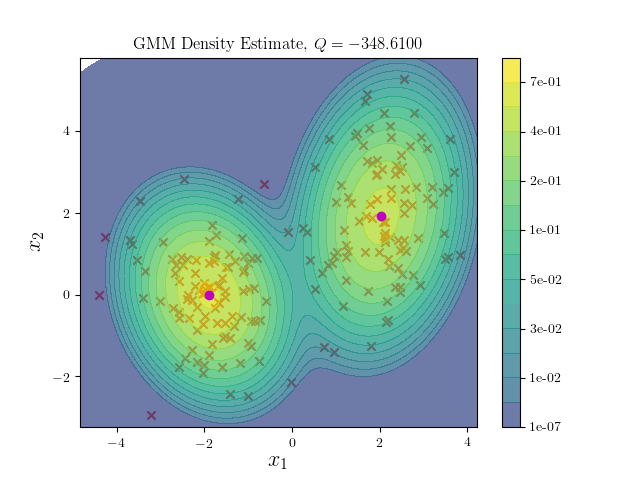
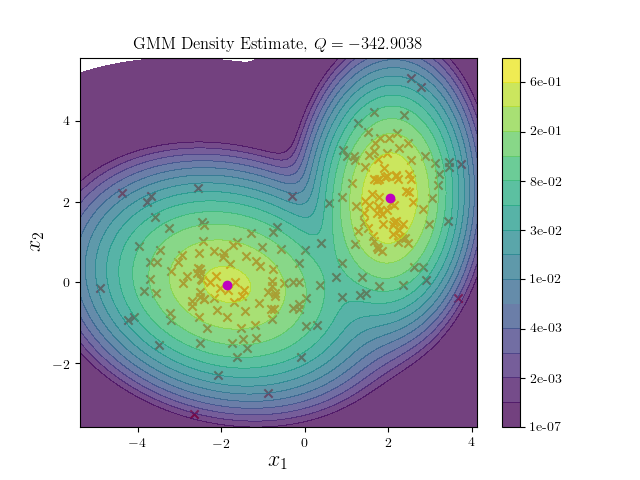
Added more levels to the density plots.

diff --git a/mixture_gaussians.py b/mixture_gaussians.py
@@ -299,7 +299,7 @@ class GaussianMixtureModel:
         fig, ax = plt.subplots(1, 1)
         ax.scatter(X[:, 0], X[:, 1], color='r', marker='x')
         min_pwr = int(np.min(np.log10(p)))
-        levels = np.append(10**min_pwr, np.logspace(-2, 0, 15))
+        levels = np.append(10**min_pwr, np.logspace(-3, 0, 15))
         cntr = ax.contourf(x, y, p, levels, alpha=0.75,
                            norm=colors.LogNorm(vmin=1e-3, vmax=1.))
         fig.colorbar(cntr, format='%.0e')
